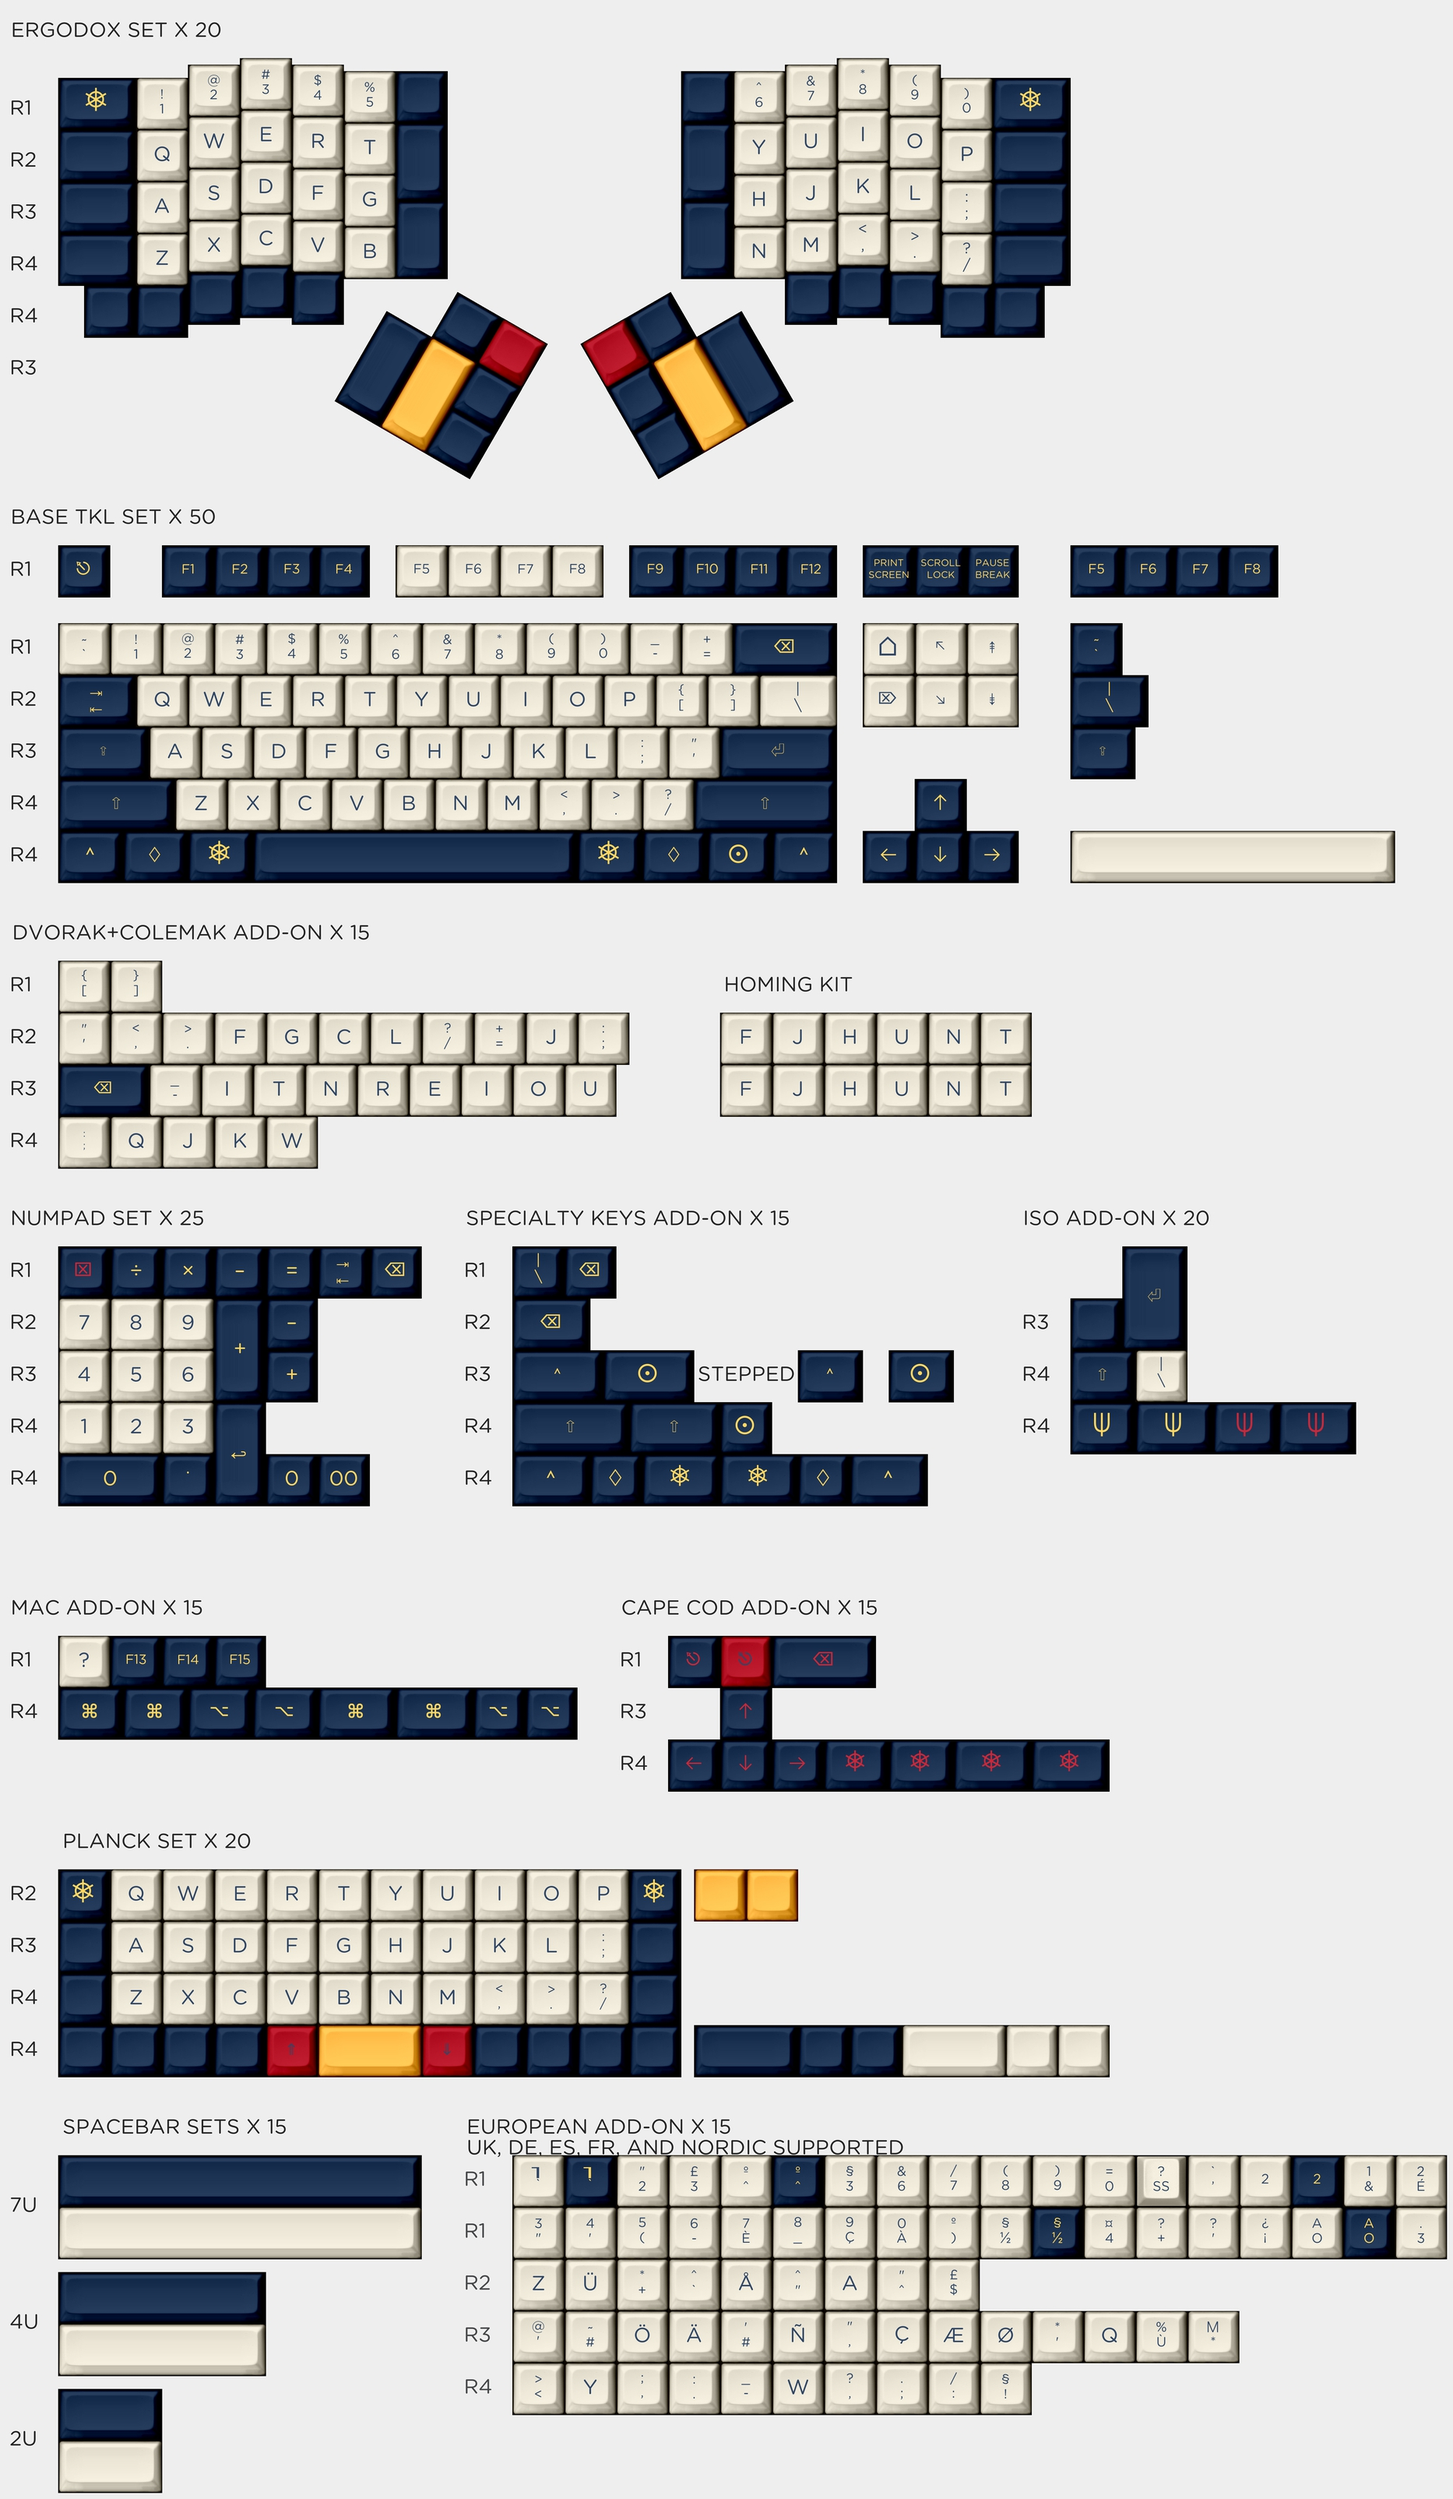
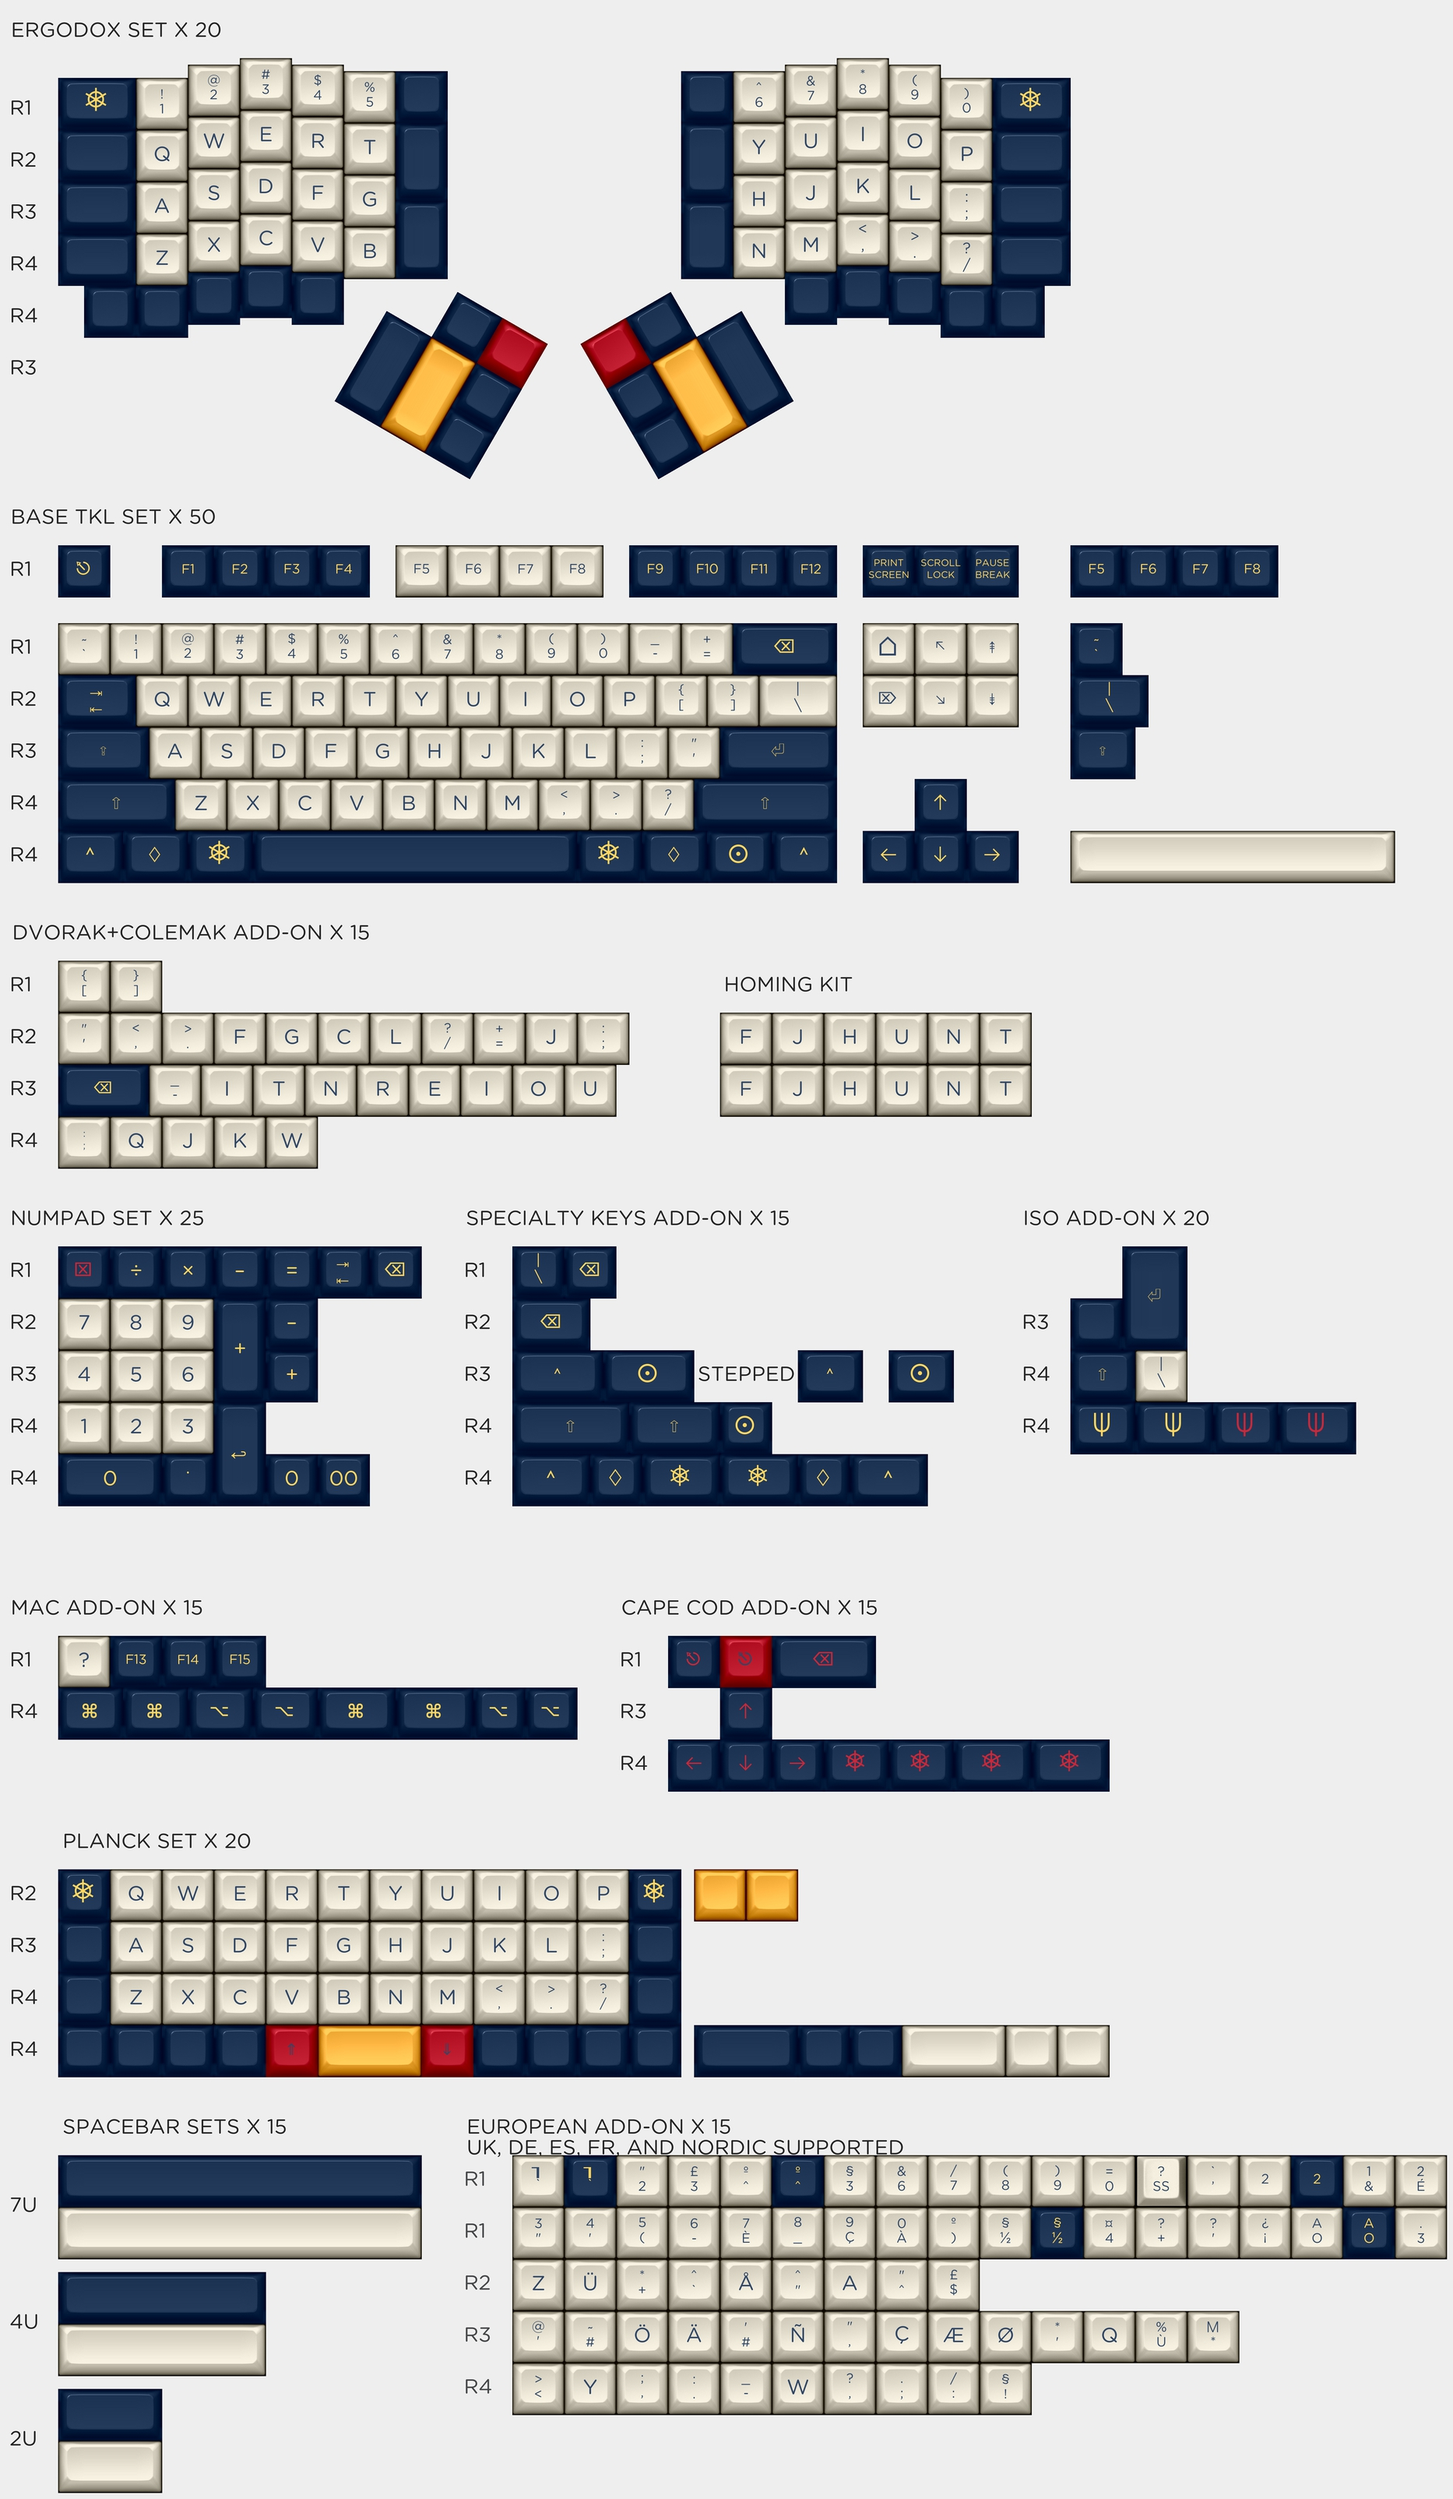
Improved Base Images

diff --git a/key.py b/key.py
@@ -14,7 +14,7 @@ class Key(object):
         self.height = 1.0
         self.width2 = 1.0
         self.height2 = 1.0
-        self.color = '#EEE2D0'
+        self.color = '#EEEEEE'
         self.font_color = '#000000'
         self.labels =[]
         self.align = 4
@@ -33,7 +33,36 @@ class Key(object):
         if self.profile in ('DCS', 'OEM', 'GMK'): # GMK technically not supported by KLE yet
             return Image.open(r'GMK_base.jpg').convert('RGBA').resize((200, 200), Image.ANTIALIAS) # GMK photo from official renders
         else:
-            return Image.open(r'SA_base.jpg').convert('RGBA').resize((200, 200), Image.ANTIALIAS) # SA photo by Madhias (Deskthority)
+            color = ImageColor.getrgb(self.color)
+            bright = 0.3*color[0] + 0.59*color[1] + 0.11*color[2]
+            if (bright > 0xB0):
+                base_num = '1'
+            elif (bright > 0x80):
+               base_num = '2'
+            elif (bright > 0x50):
+                base_num = '3'
+            elif (bright > 0x20):
+                base_num = '4'
+            else:
+                base_num = '5'
+            return Image.open('SA_Base{}.jpg'.format(base_num)).convert('RGBA').resize((200, 200), Image.ANTIALIAS) # SA renders by me
+
+    def base_color(self):
+        if self.profile in ('DCS', 'OEM', 'GMK'): # GMK technically not supported by KLE yet
+            return 0xE0
+        else:
+            color = ImageColor.getrgb(self.color)
+            bright = 0.3*color[0] + 0.59*color[1] + 0.11*color[2] # Perceptual gray
+            if (bright > 0xB0):
+                return 0xE0
+            elif (bright > 0x80):
+                return 0xB0
+            elif (bright > 0x50):
+                return 0x80
+            elif (bright > 0x20):
+                return 0x50
+            else:
+                return 0x20
 
     def u(self):
         return self.base_img().width
@@ -60,9 +89,9 @@ class Key(object):
     def tint_key(self, key_img): #a image of the key, and a hex color code string
         color = ImageColor.getrgb(self.color)
         r, g, b, a = key_img.split()
-        r = ImageMath.eval('a - 0xE0 + c', a=r, c=color[0]).convert('L') #base image is a desaturated WFK key, and desaturated WFK is e0e0e0
-        g = ImageMath.eval('a - 0xE0 + c', a=g, c=color[1]).convert('L')
-        b = ImageMath.eval('a - 0xE0 + c', a=b, c=color[2]).convert('L')
+        r = ImageMath.eval('a + c - d', a=r, d=self.base_color(), c=color[0]).convert('L') #base image is a desaturated WFK key, and desaturated WFK is e0e0e0
+        g = ImageMath.eval('a + c - d', a=g, d=self.base_color(), c=color[1]).convert('L')
+        b = ImageMath.eval('a + c - d', a=b, d=self.base_color(), c=color[2]).convert('L')
         return Image.merge('RGBA', (r, g, b, a))
 
     def stretch_key(self): # width and height of key in units
